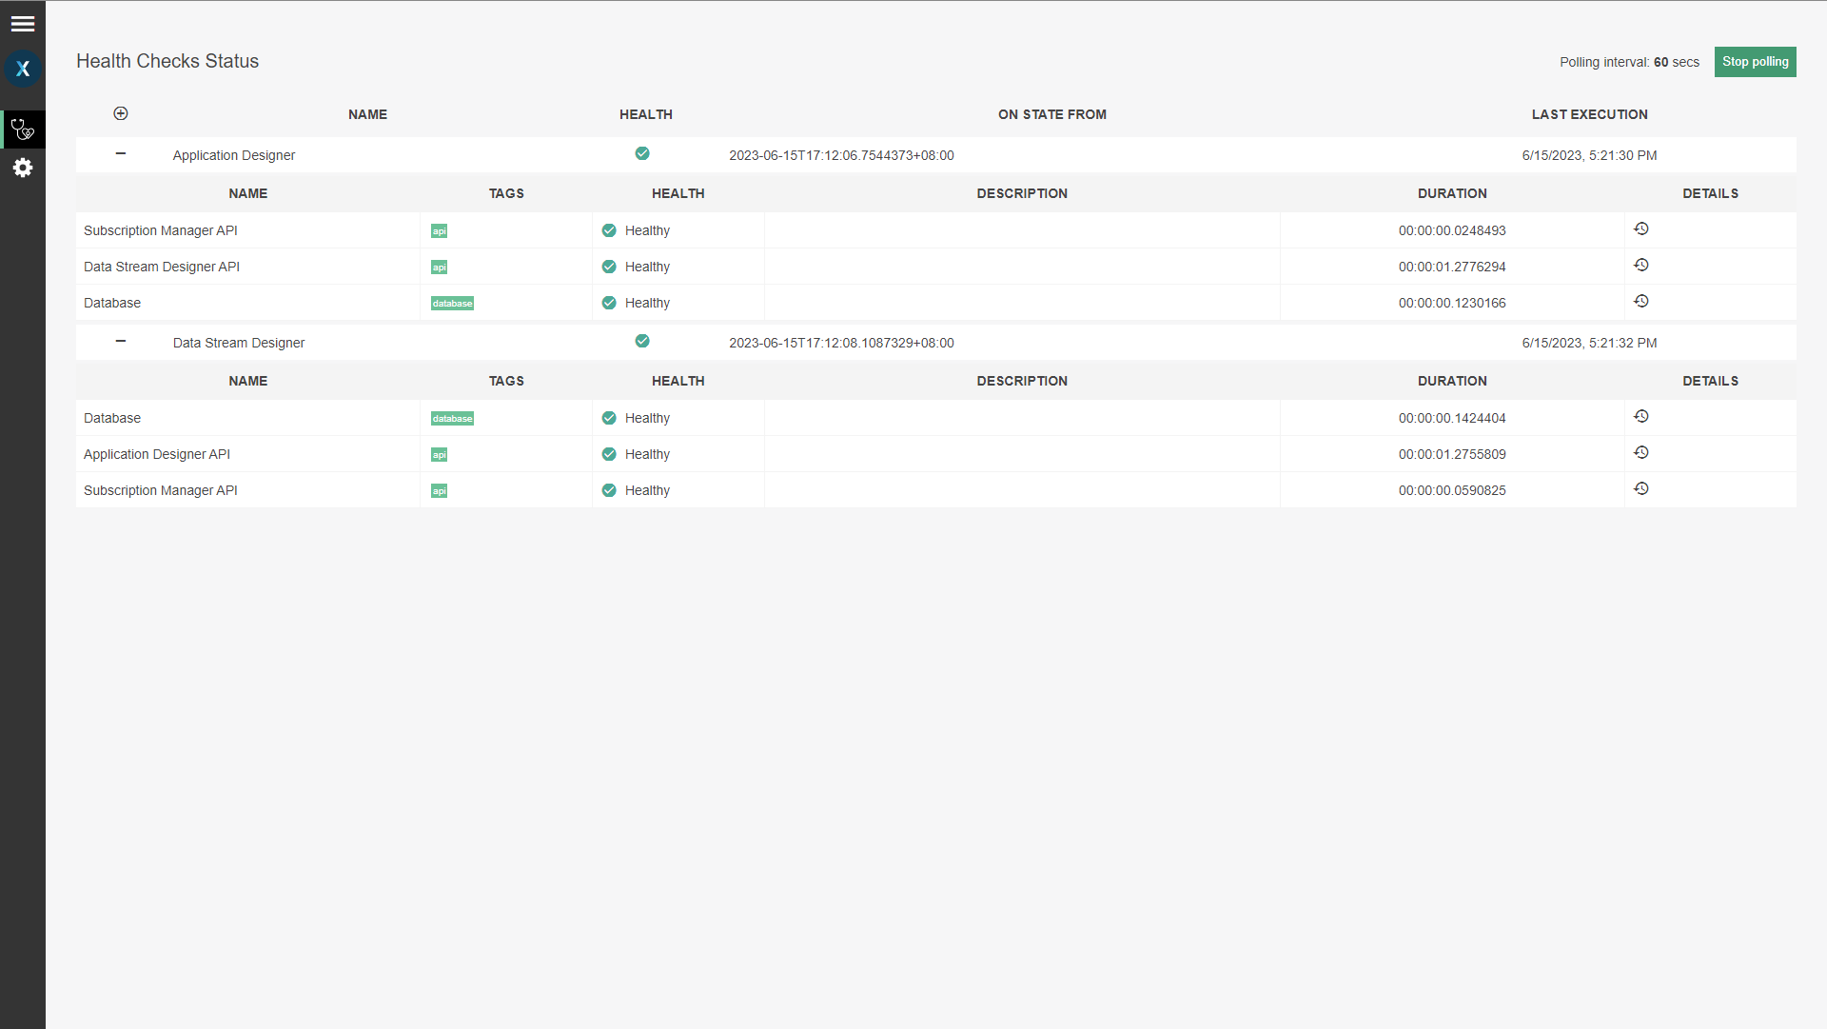
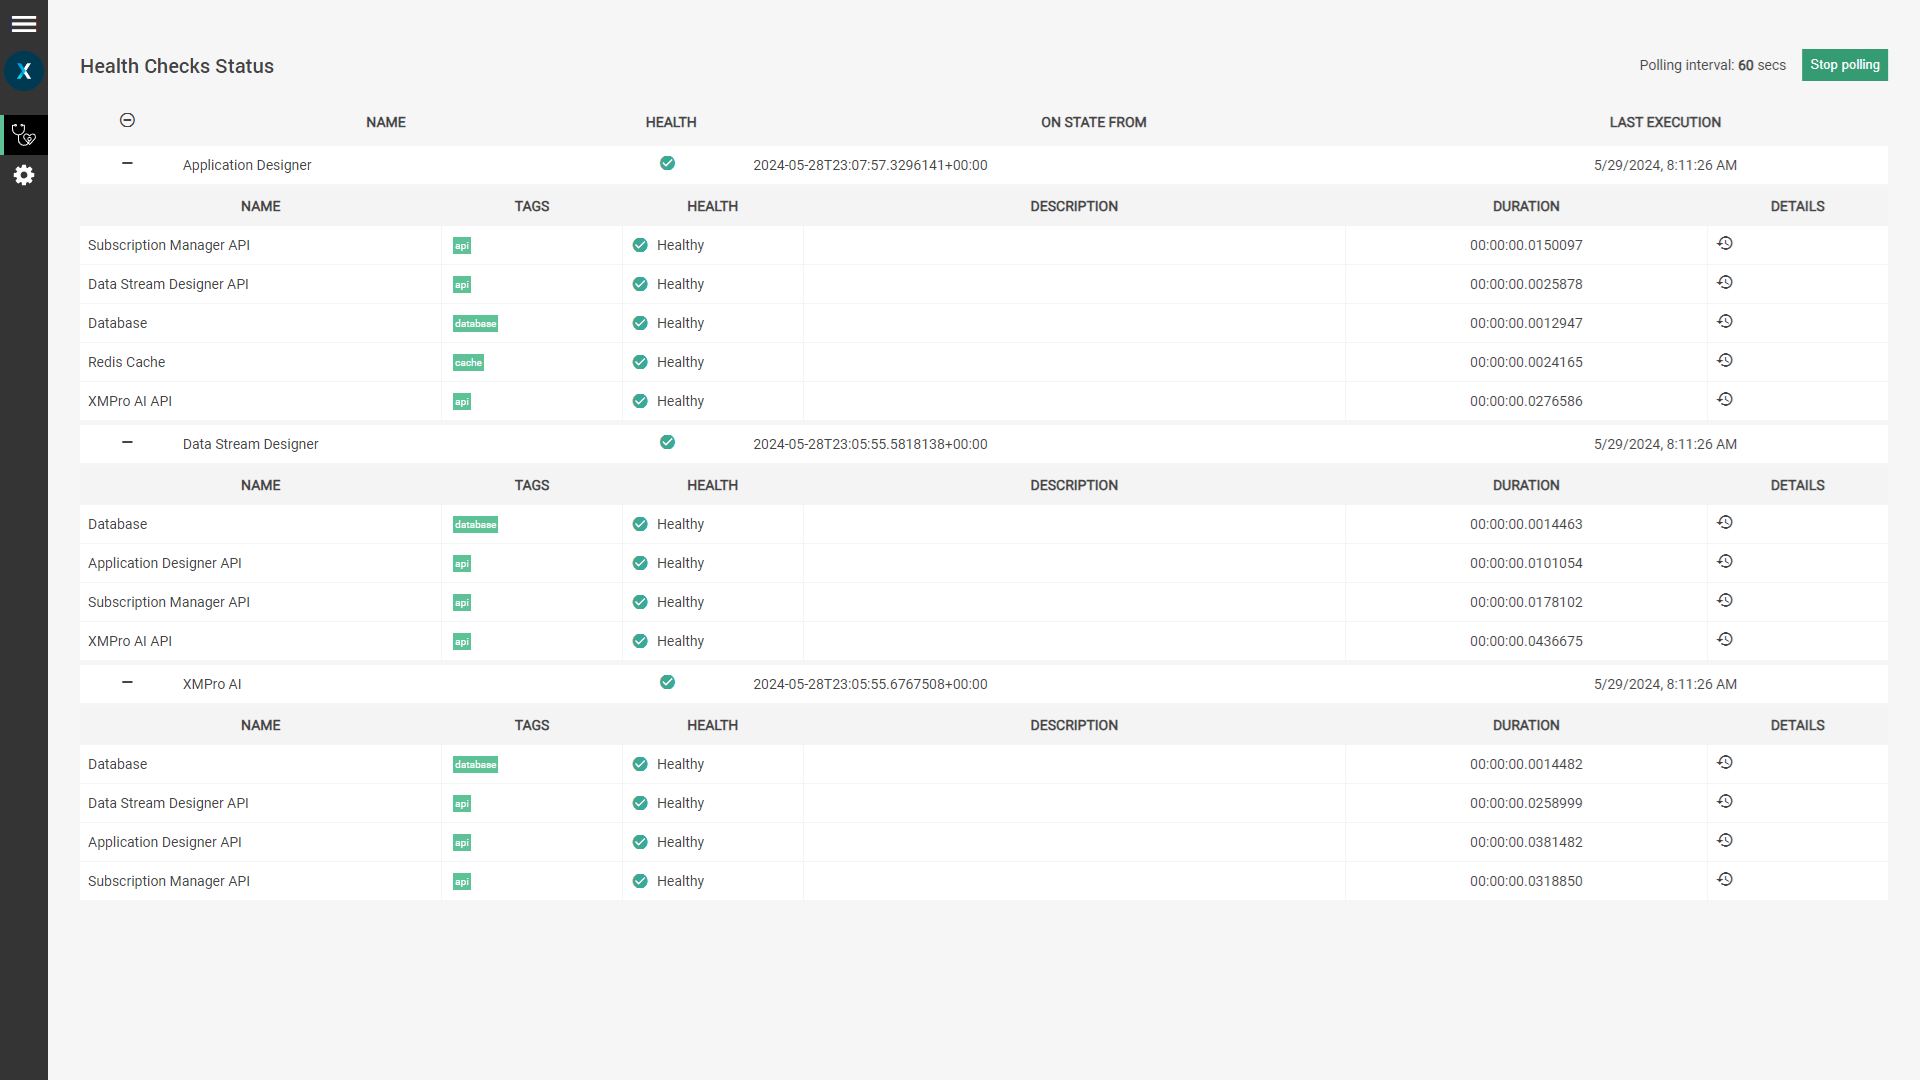
GITBOOK-198: v4.4.5  (update & Unity)

diff --git a/docs/release-notes/v4.4.5.md b/docs/release-notes/v4.4.5.md
@@ -6,7 +6,7 @@ description: 29 May 2024
 
 ## Integrations
 
-<table><thead><tr><th width="155">Change Type</th><th width="250">Name</th><th>Description</th></tr></thead><tbody><tr><td>Enhancement</td><td><a href="https://xmpro.gitbook.io/ollama/">Ollama AI &#x26; ML v1.04</a></td><td>Support single quotes in the input text.</td></tr></tbody></table>
+<table><thead><tr><th width="155">Change Type</th><th width="250">Name</th><th>Description</th></tr></thead><tbody><tr><td>Enhancement</td><td><a href="https://xmpro.gitbook.io/azure-openai/">Azure OpenAI AI &#x26; ML v1.04</a></td><td>Support dynamic messages and token counting</td></tr><tr><td>Enhancement</td><td><a href="https://xmpro.gitbook.io/ollama/">Ollama AI &#x26; ML v1.04</a></td><td>Support single quotes in the input text.</td></tr></tbody></table>
 
 ## Common
 
@@ -18,7 +18,7 @@ description: 29 May 2024
 
 ## Data Stream Designer
 
-<table><thead><tr><th width="157">Change Type</th><th>Description</th></tr></thead><tbody><tr><td>Enhancement</td><td><em>I've filled out my data stream's</em> <a href="../how-tos/data-streams/use-business-case-and-notes.md#adding-a-business-case"><em>business case</em></a><em>, but I get an error 'Unable to save business case changes' when trying to save it.</em><br>A red outline has been added to indicate that the business use case text is a required input.</td></tr></tbody></table>
+<table><thead><tr><th width="157">Change Type</th><th>Description</th></tr></thead><tbody><tr><td>Fix</td><td><em>I've filled out my data stream's</em> <a href="../how-tos/data-streams/use-business-case-and-notes.md#adding-a-business-case"><em>business case</em></a><em>, but I get an error 'Unable to save business case changes' when trying to save it.</em><br>A red outline has been added to indicate that the business use case text is a required input.</td></tr></tbody></table>
 
 ## Subscription Manager
 

diff --git a/docs/blocks-toolbox/visualizations/unity.md b/docs/blocks-toolbox/visualizations/unity.md
@@ -9,6 +9,11 @@ For Unity 2019 use the [Unity (Legacy)](unity-1.md) Block.
 {% endhint %}
 
 {% hint style="info" %}
+**Unity integration with an App**\
+Use the [XMPro Integration asset on the Unity Asset Store](https://assetstore.unity.com/packages/tools/integration/xmpro-integration-179386). The asset includes a demo project and its own documentation and tutorial.
+{% endhint %}
+
+{% hint style="info" %}
 **Disable Keyboard Capture**\
 Is your keyboard non-responsive once a Unity model is loaded? Follow [this guide](https://docs.unity3d.com/ScriptReference/WebGLInput-captureAllKeyboardInput.html) to prevent the keyboard input from being locked to the Unity model.
 {% endhint %}

diff --git a/docs/resources/whats-new/whats-new.md b/docs/resources/whats-new/whats-new.md
@@ -34,7 +34,7 @@ Administrators can [configure health checks](../../installation/3.-complete-inst
 
 The output can be consumed by your preferred provider, such as Azure's Application Insights, or use the default Health UI.&#x20;
 
-<figure><img src="../../.gitbook/assets/health-ui.png" alt=""><figcaption><p>Fig 2: The default Health UI with example health checks on App Designer and Data Stream Designer.</p></figcaption></figure>
+<figure><img src="../../.gitbook/assets/health-ui-v4.3.png" alt=""><figcaption><p>Fig 2: The default Health UI with example health checks on App Designer and Data Stream Designer.</p></figcaption></figure>
 
 ### Logging Provider Support&#x20;
 

diff --git a/docs/installation/3.-complete-installation/configure-health-checks-optional.md b/docs/installation/3.-complete-installation/configure-health-checks-optional.md
@@ -40,7 +40,7 @@ To access the health checks performed, visit the health UI of any of the service
 
 _The health check for XMPro AI was added in v4.4.5._&#x20;
 
-<figure><img src="../../.gitbook/assets/health-ui (1).png" alt=""><figcaption><p>Fig 2: The Health Checks interface</p></figcaption></figure>
+<figure><img src="../../.gitbook/assets/health-ui.png" alt=""><figcaption><p>Fig 2: The Health Checks interface</p></figcaption></figure>
 
 ## Configure Health Checks
 
